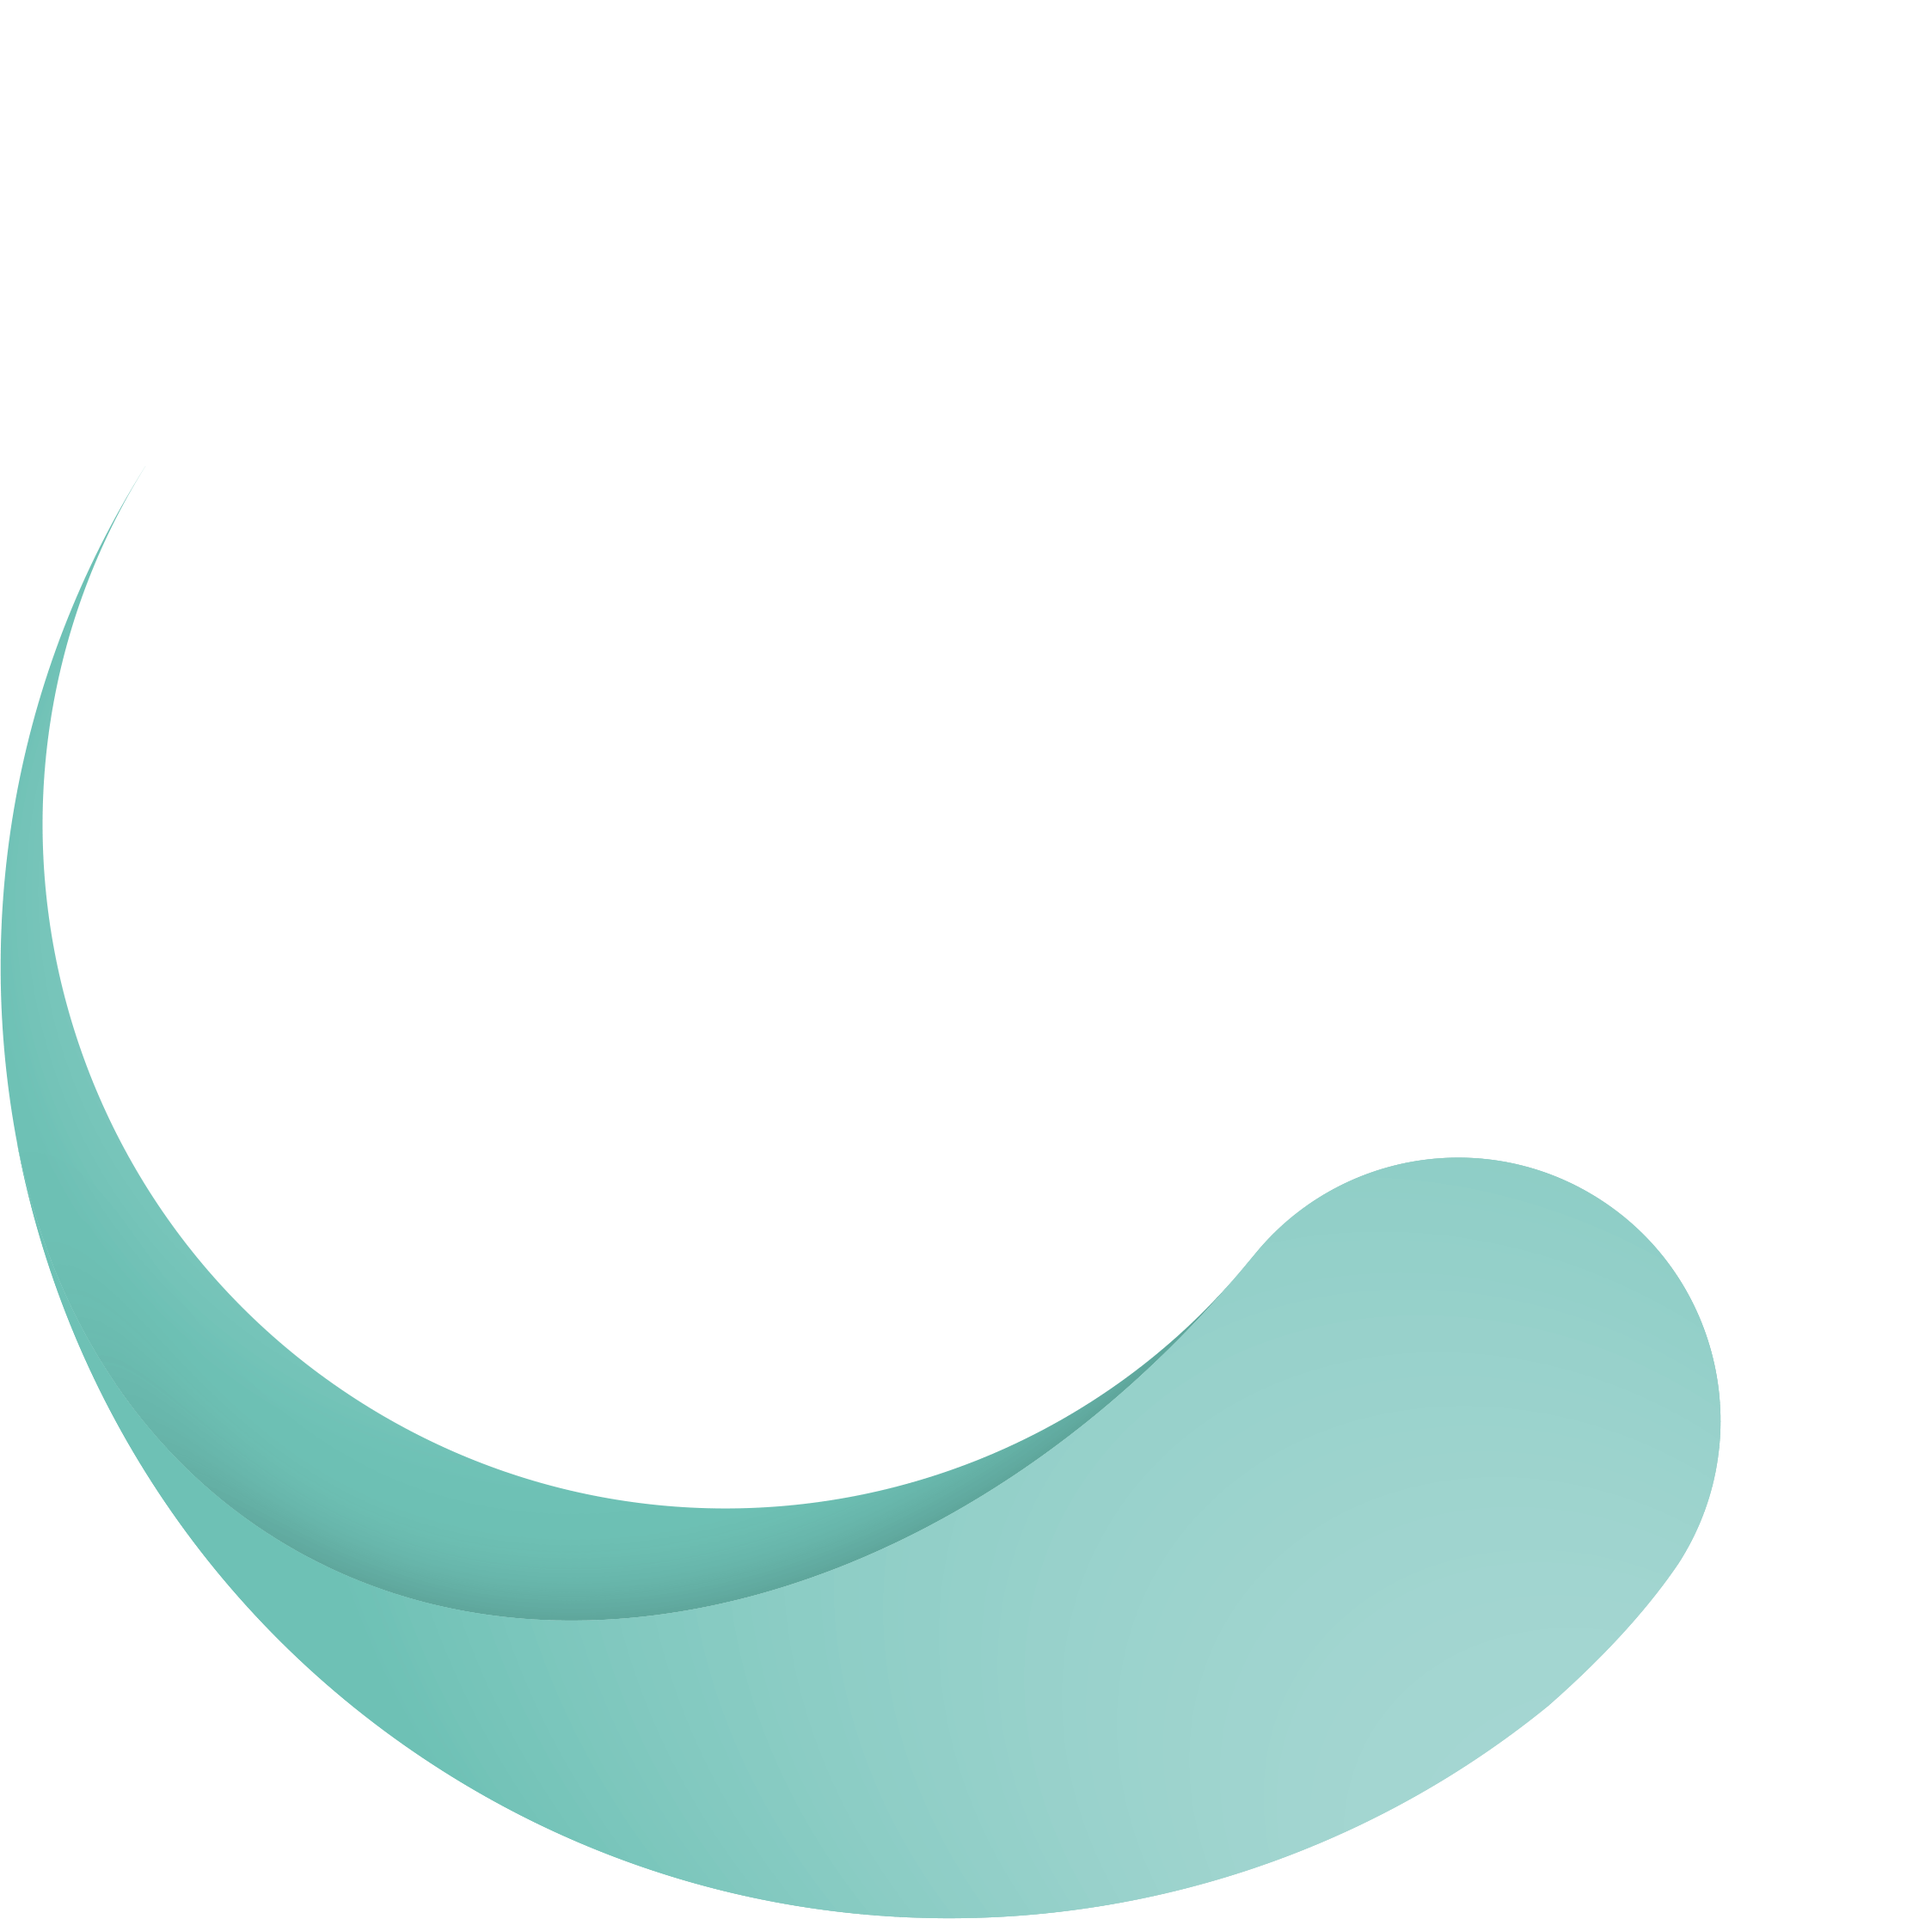
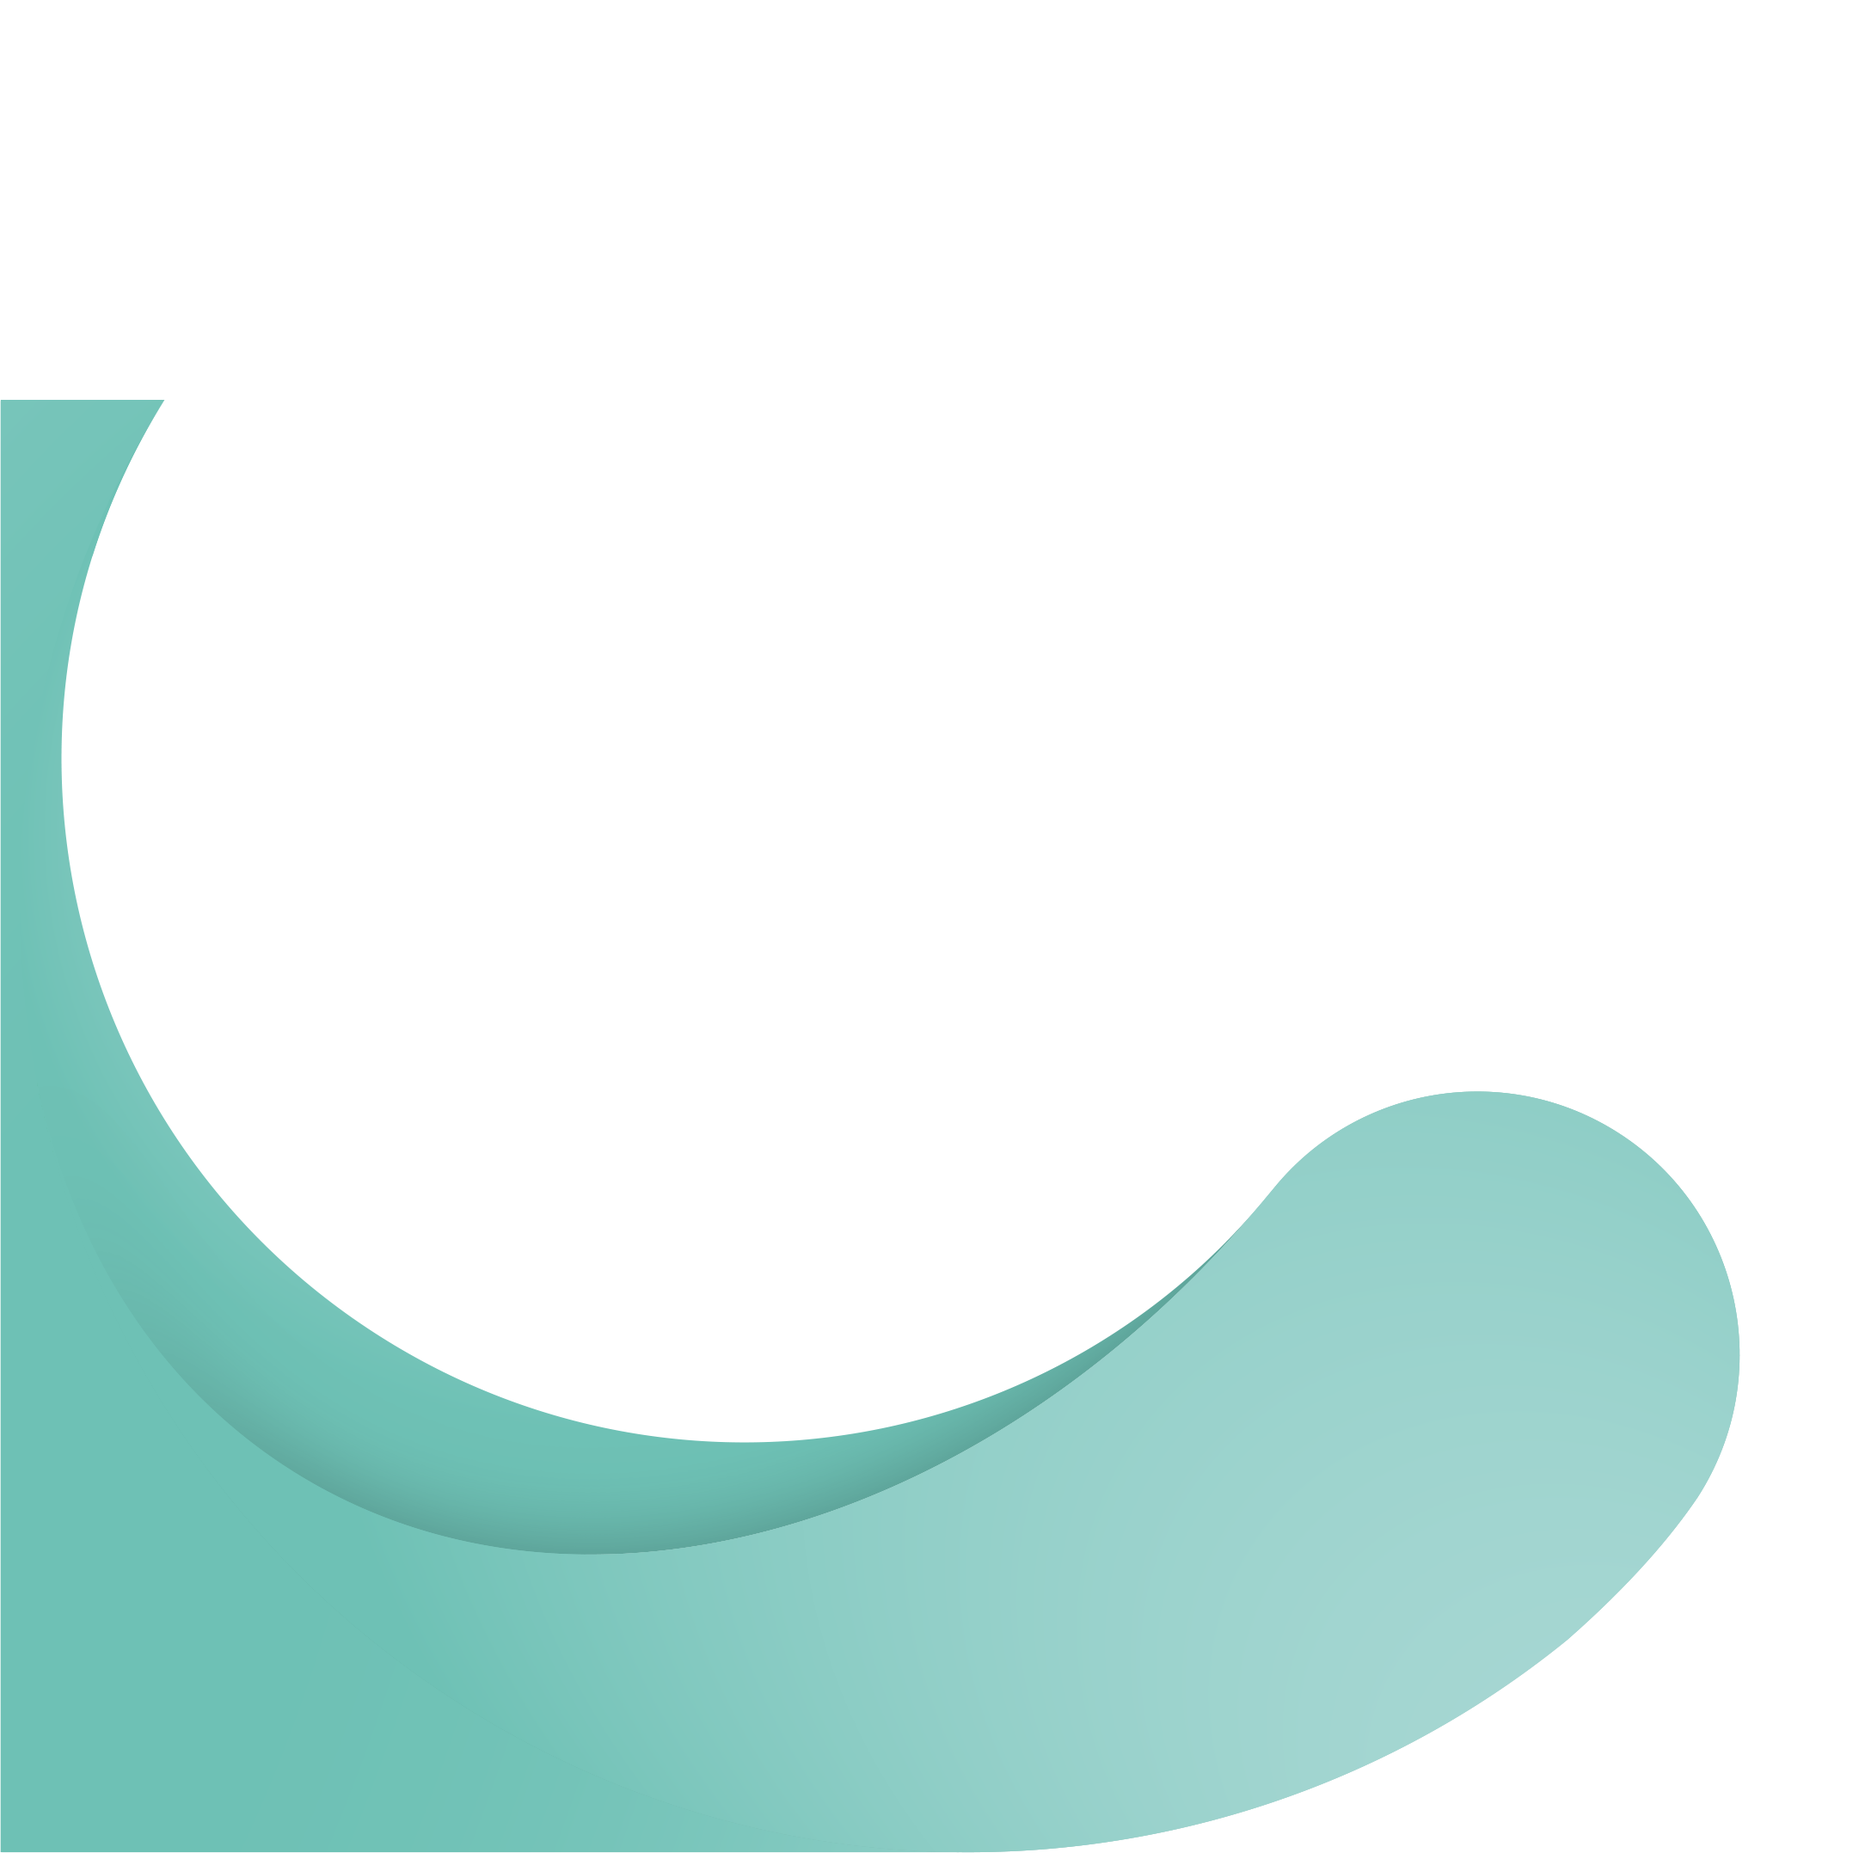
fix: adjust schwung styling

diff --git a/src/components/hero.tsx b/src/components/hero.tsx
@@ -28,7 +28,7 @@ const HeroSection = ({ data, className }: HeroSectionProps): JSX.Element => {
           )}
         >
           <div className="h-[115%] md:h-[150%] w-[115%] shrink-0 flex items-center justify-center">
-            <div className="aspect-square min-w-full min-h-full relative shrink-0">
+            <div className="aspect-square min-w-full min-h-full relative shrink-0 rounded-full overflow-hidden">
               <Image
                 wrapperProps={{
                   className: "w-full h-full rounded-full overflow-hidden",
